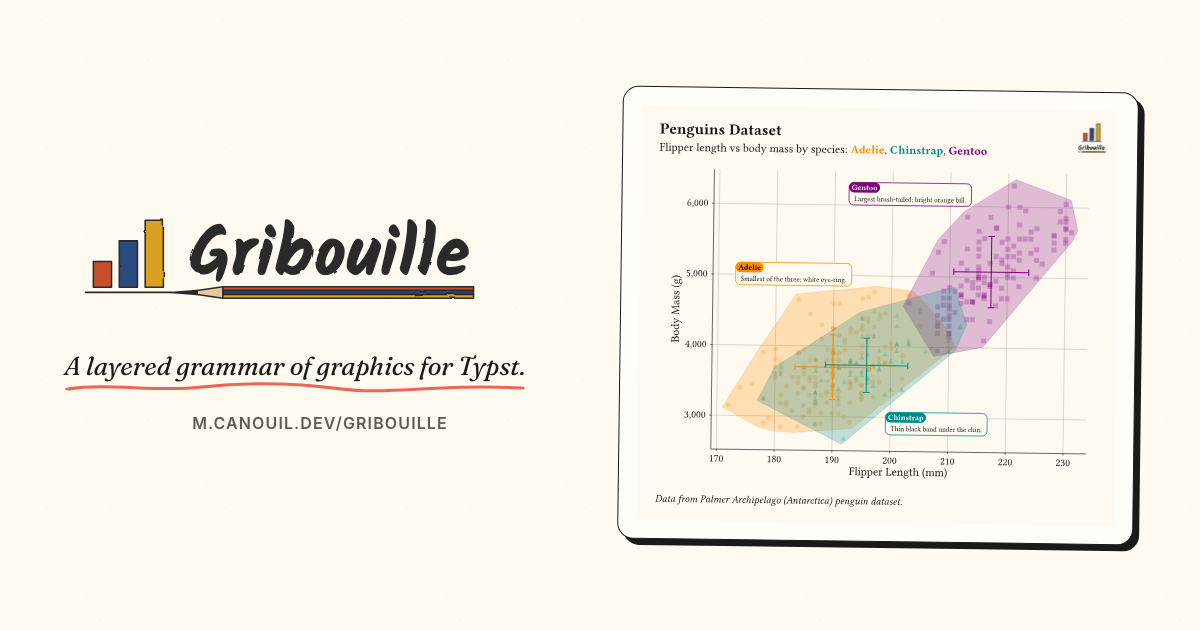
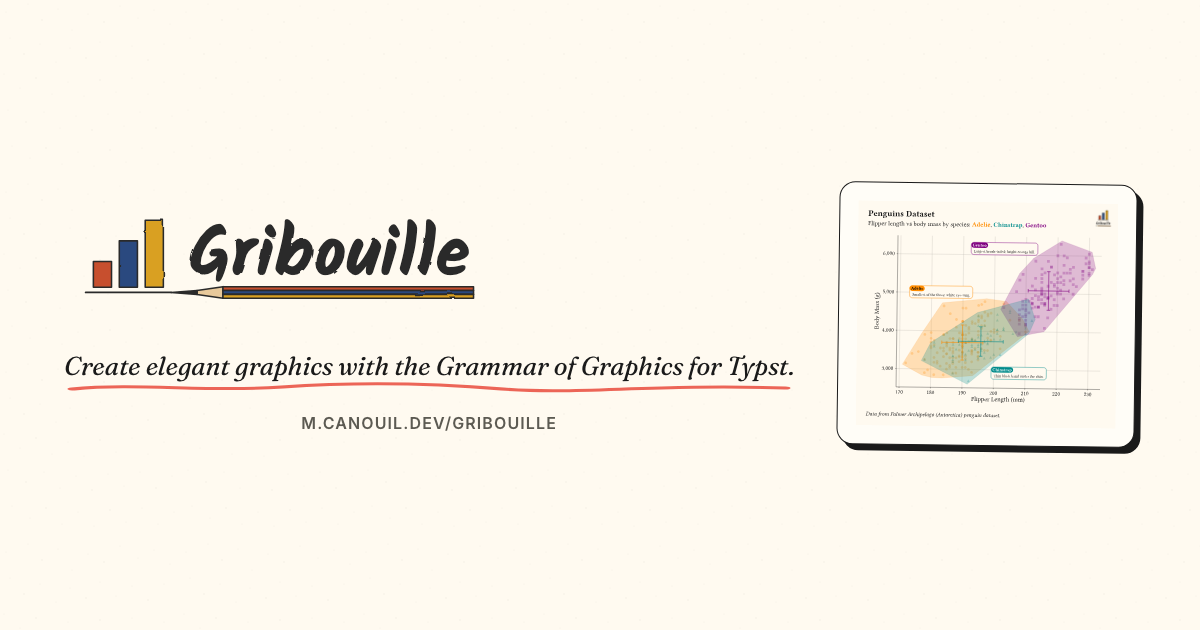
chore: update description of Gribouille

diff --git a/docs/assets/social-card/social-card.html b/docs/assets/social-card/social-card.html
@@ -144,7 +144,7 @@
 <body>
   <div class="left">
     <img class="wordmark" src="../images/logo.svg" alt="Gribouille">
-    <p class="tagline">A layered grammar of graphics for Typst.</p>
+    <p class="tagline">Create elegant graphics with the Grammar of Graphics for Typst.</p>
     <p class="url">m.canouil.dev/gribouille</p>
   </div>
   <div class="right">